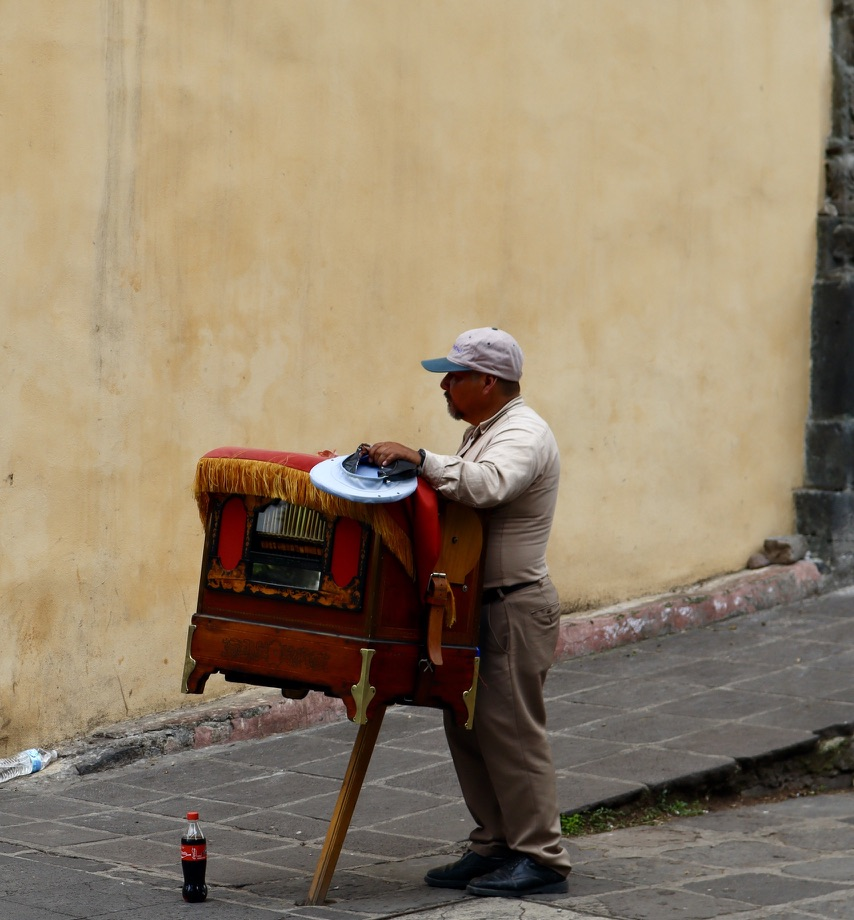
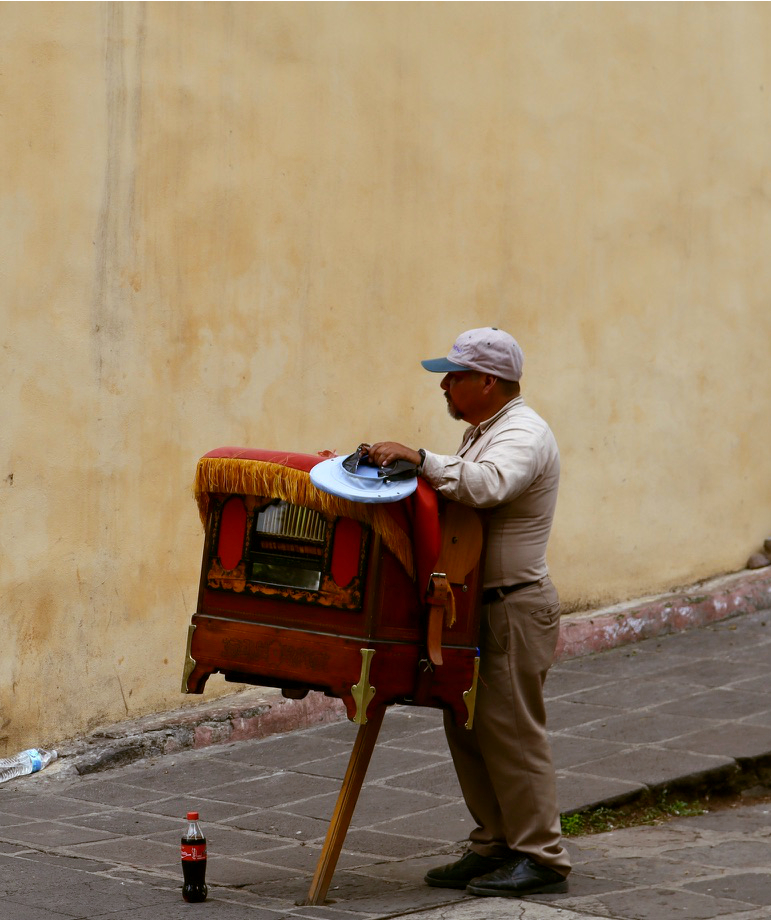
Replace and caption photo 11

diff --git a/index.html b/index.html
@@ -32,7 +32,7 @@
     <img src="photos/photo-06.jpeg" data-caption="Photo 06 — add a description" alt="Photograph by Joseph Maya" loading="lazy">
     <img src="photos/photo-08.jpeg" data-caption="Photo 08 — add a description" alt="Photograph by Joseph Maya" loading="lazy">
     <img src="photos/photo-09.jpeg" data-caption="Photo 09 — add a description" alt="Photograph by Joseph Maya" loading="lazy">
-    <img src="photos/photo-11.jpeg" data-caption="Photo 11 — add a description" alt="Photograph by Joseph Maya" loading="lazy">
+    <img src="photos/photo-11.jpeg" data-caption="El Organillero de Coyoacán" alt="El Organillero de Coyoacán, photographed by Joseph Maya" loading="lazy">
     <img src="photos/photo-12.jpeg" data-caption="Gradient Evening" alt="Gradient Evening, photographed by Joseph Maya" loading="lazy">
     <img src="photos/photo-13.jpeg" data-caption="Photo 13 — add a description" alt="Photograph by Joseph Maya" loading="lazy">
     <img src="photos/photo-14.jpeg" data-caption="Photo 14 — add a description" alt="Photograph by Joseph Maya" loading="lazy">
